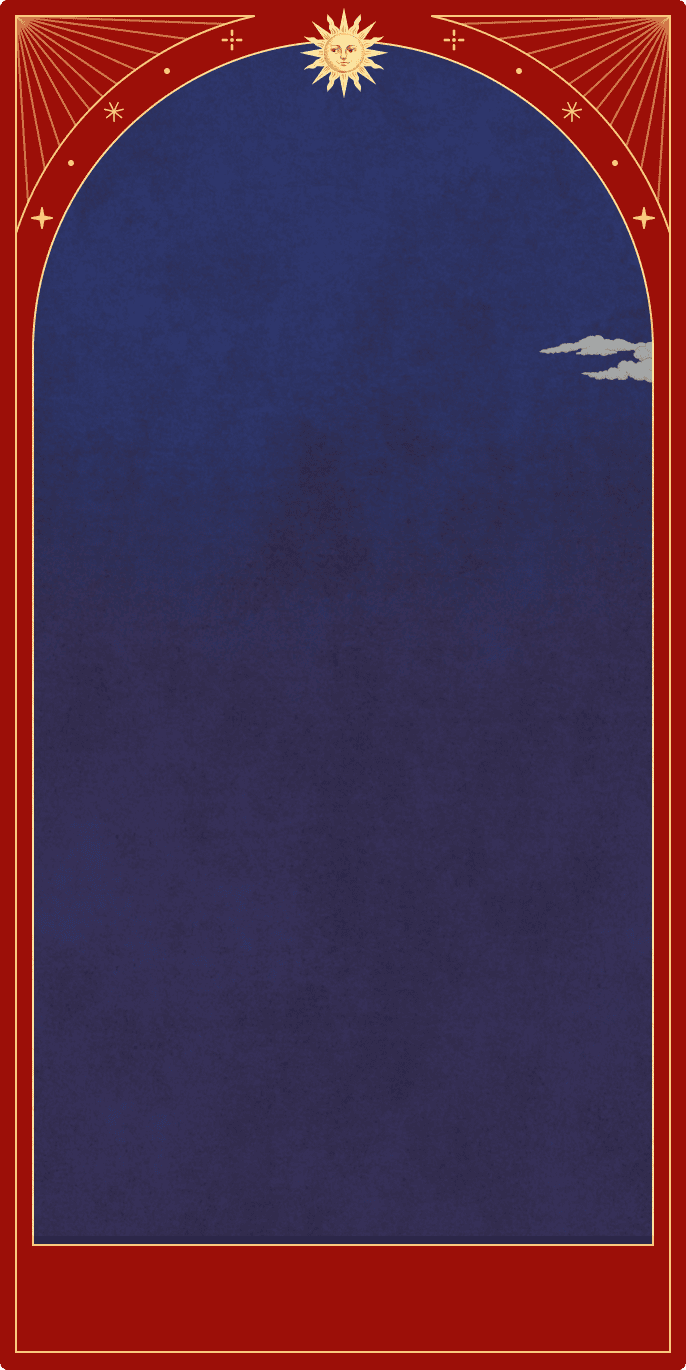
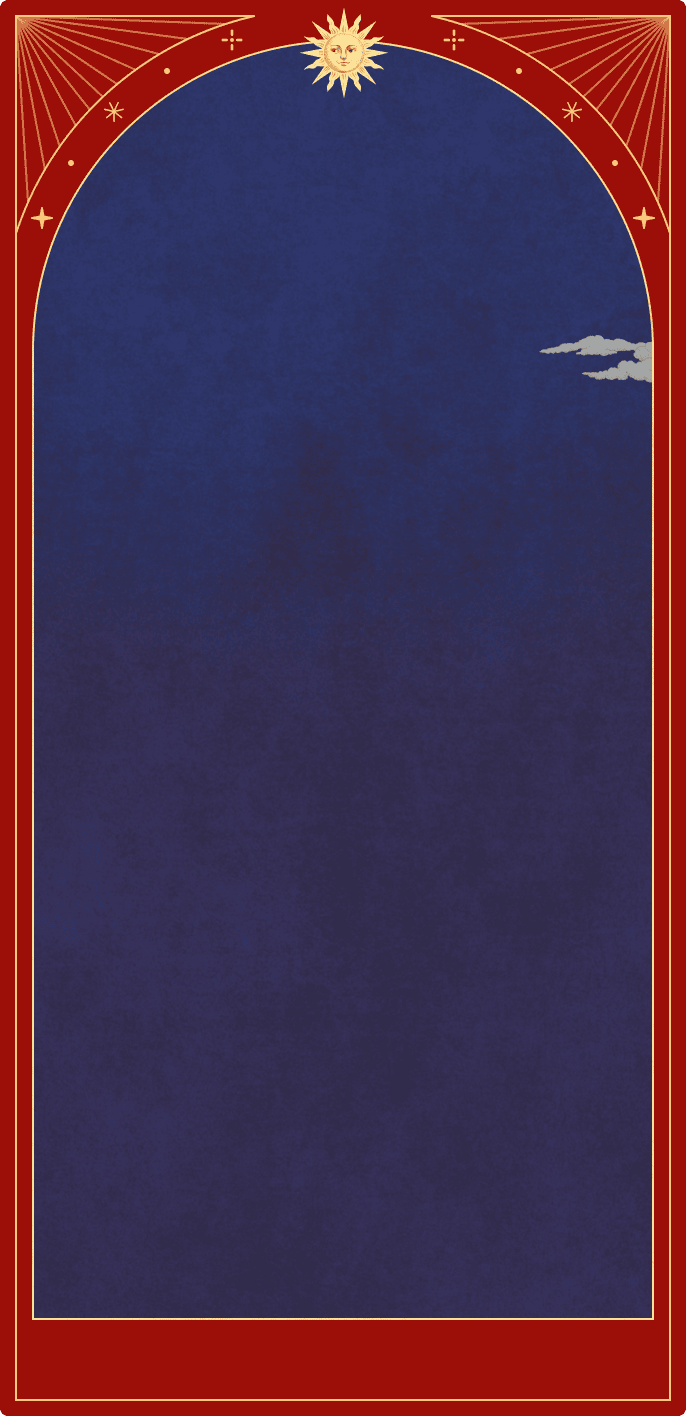
feat: 24일자 팝업 수정

Changed region(s): [[0.0306, 0.0, 0.9796, 0.2759], [0.0306, 0.8891, 0.949, 0.9504], [0.0306, 0.981, 0.9796, 1.0]]

diff --git a/src/assets/scss/h-point-ch.scss b/src/assets/scss/h-point-ch.scss
@@ -1085,7 +1085,7 @@ button {
                         width: 100%;
                         background: url(../../assets/images/h-point-christmas/modal-day-24-bg-d.png) no-repeat top center;
                         background-size: cover;
-                        padding-bottom: 7vw;
+                        padding-bottom: 5.8333vw;
                         &::after {
                             position: absolute;
                             top: 69.066vw;
@@ -1173,7 +1173,7 @@ button {
                             margin: 0 auto;
                             transform: unset;
                             + .modal-body {
-                                margin-top: 9.066vw;
+                                margin-top: 8vw;
                             }
                         }
                         .modal-body {
@@ -1204,7 +1204,7 @@ button {
                                 }
                             }
                             + .modal-fuc {
-                                margin-top: 6.4vw;
+                                margin-top: 5.333vw;
                             }
                         }
                     }
@@ -1477,7 +1477,7 @@ button {
                             &.type3 {
                                 display: flex;
                                 position: relative;
-                                width: 83.733vw;
+                                width: 83.866vw;
                                 height: 18.266vw; 
                                 align-items: center;
                                 justify-content: center;
